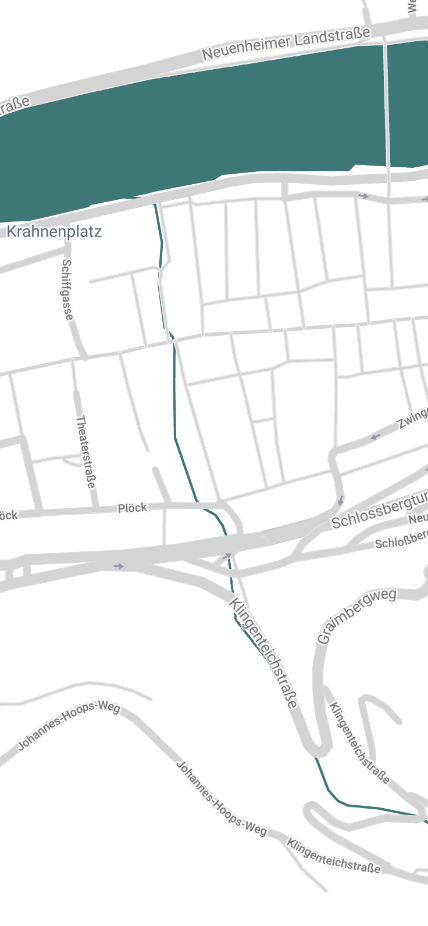
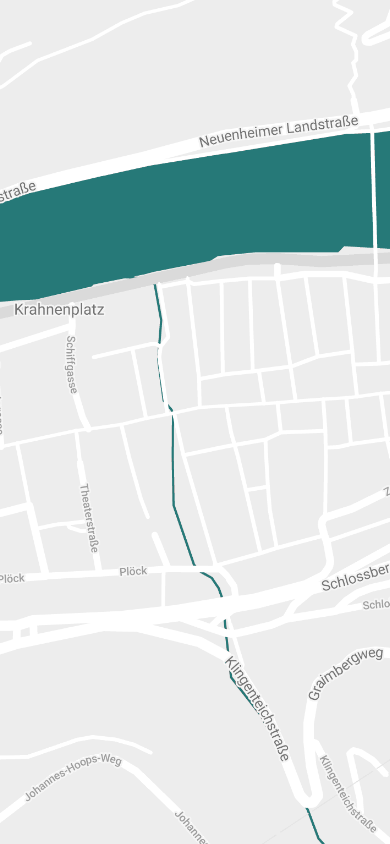
Preview finished, Map in the making

diff --git a/frontend/src/components/PreviewCard/PreviewCard.module.css b/frontend/src/components/PreviewCard/PreviewCard.module.css
@@ -1,0 +1,74 @@
+.PreviewCard {
+  position: relative;
+  display: block;
+  margin-left: auto;
+  margin-right: auto;
+  /* margin-top: 515px; */
+  margin-bottom: 30px;
+  background-color: white;
+  width: 90%;
+  height: 300px;
+  border-radius: 15px;
+  box-shadow: 0px 0px 10px 5px #bfbfbf;
+}
+
+.PreviewButton {
+  border-style: none;
+  border-radius: 15px;
+  text-align: left;
+  border-width: 0px;
+  background-color: white;
+  padding-left: 0px;
+  padding-right: 0px;
+  padding-top: 0px;
+  padding-bottom: 0px;
+}
+
+.PreviewImg {
+  position: relative;
+  border-radius: 15px;
+  width: 100%;
+  margin: -120px 0px 0px 0px;
+  object-position: 0px 120px;
+  object-fit: contain;
+  margin-bottom: -30px;
+}
+
+.Text {
+  position: relative;
+  padding-left: 15px;
+  padding-right: 15px;
+}
+
+h1 {
+  padding-top: -50px !important;
+  font-family: "Outfit-SemiBold";
+  font-size: 32px;
+  margin-bottom: 0;
+}
+
+.Question {
+  font-family: "Outfit-Light";
+  line-height: 25px;
+  font-size: 18px;
+  margin-bottom: 0px;
+}
+
+.alignIconAndAdress {
+  display: flex;
+  padding-top: 10px;
+  padding-bottom: 5px;
+}
+
+.adress {
+  color: rgba(38, 121, 120, 1);
+  font-size: 15px;
+  margin-bottom: 0px;
+  margin-top: 8px;
+  font-family: "Outfit-Regular";
+}
+
+.locationImg {
+  width: 30px;
+  height: auto;
+}

diff --git a/frontend/src/components/PreviewCard/PreviewCard.jsx b/frontend/src/components/PreviewCard/PreviewCard.jsx
@@ -1,0 +1,38 @@
+import React from "react";
+import styles from "./PreviewCard.module.css";
+import { GetStation } from "../../ConnectionToDatabase.js";
+// import { Link } from "react-router-dom";
+import Blurb from "../Blurb/Blurb.jsx";
+
+import StationImg from "../../assets/images/Stations/4_Affordanz/Rechteck 609 klein.png";
+import locationImg from "../../assets/images/Icons/location-inactive.png";
+
+function PreviewCard() {
+  let stationID = 4;
+  let station = GetStation(stationID);
+
+  return (
+    <div className={styles.PreviewCard}>
+      <button className={styles.PreviewButton}>
+        {/* <Blurb></Blurb> */}
+        {/* <Link path="/blurb"></Link> */}
+        <img className={styles.PreviewImg} src={StationImg} alt="" />
+        <div className={styles.Text}>
+          <h1>{!station ? "Loading..." : station.topic}</h1>
+          <p className={styles.Question}>
+            Wie können Schriften eine Affordanz bieten?
+          </p>
+
+          <div className={styles.alignIconAndAdress}>
+            <img src={locationImg} className={styles.locationImg} alt="..." />
+            <p className={styles.adress}>
+              {!station ? "Loading..." : station.adress}
+            </p>
+          </div>
+        </div>
+      </button>
+    </div>
+  );
+}
+
+export default PreviewCard;

diff --git a/frontend/src/pages/Map/Map.jsx b/frontend/src/pages/Map/Map.jsx
@@ -1,23 +1,26 @@
-import React from "react"; //imr shortcut
-import "./Map.module.css";
+import React from "react";
+import styles from "./Map.module.css";
+import PreviewCard from "../../components/PreviewCard/PreviewCard.jsx";
+
 import MapImage from "../../assets/images/Map.png";
 import locationInactive from "../../assets/images/Icons/location-inactive.png";
 import locationActive from "../../assets/images/Icons/location-active.png";
 
 function Map() {
-  //ffc shortcut
   return (
-    <div className="Map">
-      <div className="MapImage">
-        <img src={MapImage} alt="MapImage" />
+    <div className={styles.Map}>
+      <img className={styles.MapImage} src={MapImage} alt="MapImage" />
+
+      <div className={styles.circleContainer}>
+        <div className={styles.circle}></div>
       </div>
-      <div className="circle-container">
-        <div className="circle"></div>
+      <div className={styles.PreviewCard}>
+        <PreviewCard />
       </div>
-      <div className="location-container">
+      {/* <div className="location-container">
         <img className="inactive" src={locationInactive} alt="" />
         <img className="active" src={locationActive} alt="" />
-      </div>
+      </div> */}
     </div>
   );
 }

diff --git a/frontend/src/components/Blurb/Blurb.module.css b/frontend/src/components/Blurb/Blurb.module.css
@@ -2,6 +2,7 @@
   position: absolute;
   filter: blur(4px) brightness(50%);
   width: 100%;
+  height: auto;
 }
 
 .Blurb {
@@ -41,6 +42,8 @@
   float: right;
   display: block;
   position: relative;
+  width: 100px;
+  height: auto;
 }
 
 h1 {
@@ -70,6 +73,7 @@ h1 {
 .WalkingImg {
   position: absolute;
   width: 12px;
+  height: auto;
   margin-left: 40px;
   margin-top: -30px;
 }
@@ -82,17 +86,9 @@ h1 {
   font-size: 18px;
 }
 
-/* .category {
-    font-size: small;
-    text-align: left;
-    padding-left: 25px;
-    padding-right: 25px;
-    margin-top: 7px;
-    margin-bottom: 7px;
-  } */
-
 .locationImg {
   width: 30px;
+  height: auto;
 }
 
 .historicalText {

diff --git a/frontend/src/components/Blurb/Blurb.jsx b/frontend/src/components/Blurb/Blurb.jsx
@@ -1,8 +1,9 @@
 import React from "react";
-import MapImg from "../../assets/images/Map.png";
-import ImgStation from "../../assets/images/Stations/1_Olympia/image_1.png";
-import styles from "./Blurb.module.css";
 import { GetStation, SetAnswer } from "../../ConnectionToDatabase.js";
+import styles from "./Blurb.module.css";
+
+import MapImg from "../../assets/images/Map.png";
+import ImgStation from "../../assets/images/Stations/4_Affordanz/Rechteck 609.png";
 import ImgWalk from "../../assets/images/Icons/walking.png";
 import locationImg from "../../assets/images/Icons/location-active.png";
 import timePlaceholder from "../../assets/images/Icons/time.png";

diff --git a/frontend/src/pages/Map/Map.module.css b/frontend/src/pages/Map/Map.module.css
@@ -1,4 +1,4 @@
-@import url("https://fonts.googleapis.com/css?family=Source+Sans+Pro");
+/* @import url("https://fonts.googleapis.com/css?family=Source+Sans+Pro"); */
 /* 
 * {
   overflow-x: hidden;
@@ -11,10 +11,11 @@
 
 .MapImage {
   position: absolute;
-  width: 380px;
+  width: 100%;
+  height: auto;
 }
 
-.circle-container {
+.circleContainer {
   margin: 0;
   height: 100vh;
   display: flex;
@@ -46,10 +47,15 @@
   }
 }
 
-.location-container {
+.PreviewCard {
+  position: relative;
+  margin-top: -330px;
+}
+
+/* .location-container {
   position: absolute;
   display: flex;
-}
+} */
 
 /* .inactive {
 }

diff --git a/frontend/src/App.js b/frontend/src/App.js
@@ -2,6 +2,7 @@ import React from "react";
 import { BrowserRouter as Router, Routes, Route } from "react-router-dom";
 import Test from "./pages/Test/Test.jsx";
 import Map from "./pages/Map/Map.jsx";
+import Blurb from "./components/Blurb/Blurb.jsx";
 
 function App() {
   return (
@@ -9,6 +10,7 @@ function App() {
       <Routes>
         <Route path="/" exact element={<Test />}></Route>
         <Route path="/map" exact element={<Map />}></Route>
+        {/* <Route path="/blurb" exact element={<Blurb />}></Route> */}
       </Routes>
     </Router>
   );

diff --git a/frontend/src/index.js b/frontend/src/index.js
@@ -6,7 +6,7 @@ import "./index.css";
 //   QuestImage,
 //   QuestTextField,
 // } from "./pages/StationQuest/StationQuest.jsx";
-import Blurb from "./components/Blurb/Blurb.jsx";
+import Map from "./pages/Map/Map.jsx";
 import reportWebVitals from "./reportWebVitals";
 import "bootstrap/dist/css/bootstrap.css";
 // import Map from "./pages/Map/Map.jsx";
@@ -15,7 +15,7 @@ import App from "./App.js";
 
 ReactDOM.render(
   <React.StrictMode>
-    <App />
+    <Map />
   </React.StrictMode>,
   document.getElementById("root")
 );

diff --git a/frontend/src/components/InputImageCarousel/ImageCarousel.jsx b/frontend/src/components/InputImageCarousel/ImageCarousel.jsx
@@ -1,6 +1,7 @@
 import styles from "./ImageCarousel.module.css";
 import React from "react";
-//import { Carousel } from "react-bootstrap";
+import { Carousel } from "react-bootstrap";
+
 import OwlCarousel from "react-owl-carousel";
 import "owl.carousel/dist/assets/owl.carousel.css";
 import "owl.carousel/dist/assets/owl.theme.default.css";
